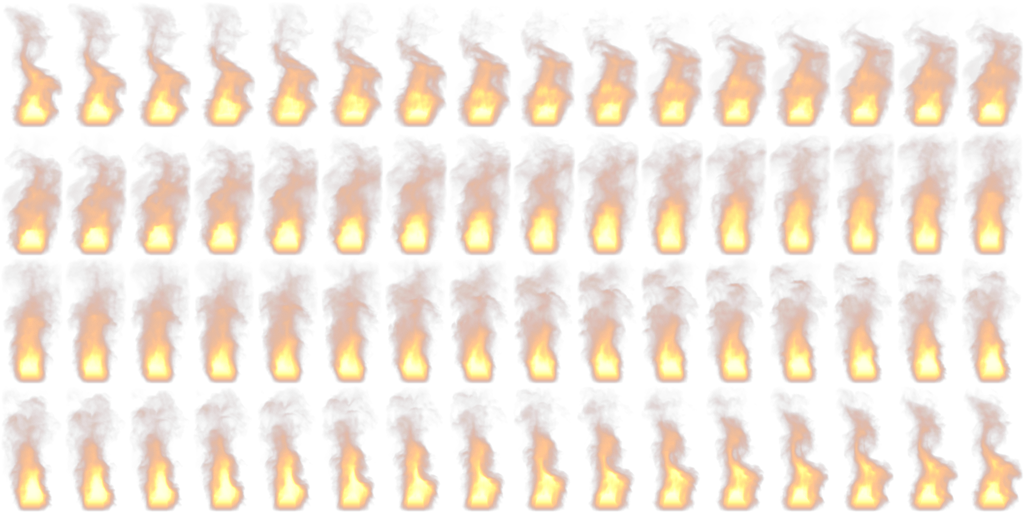
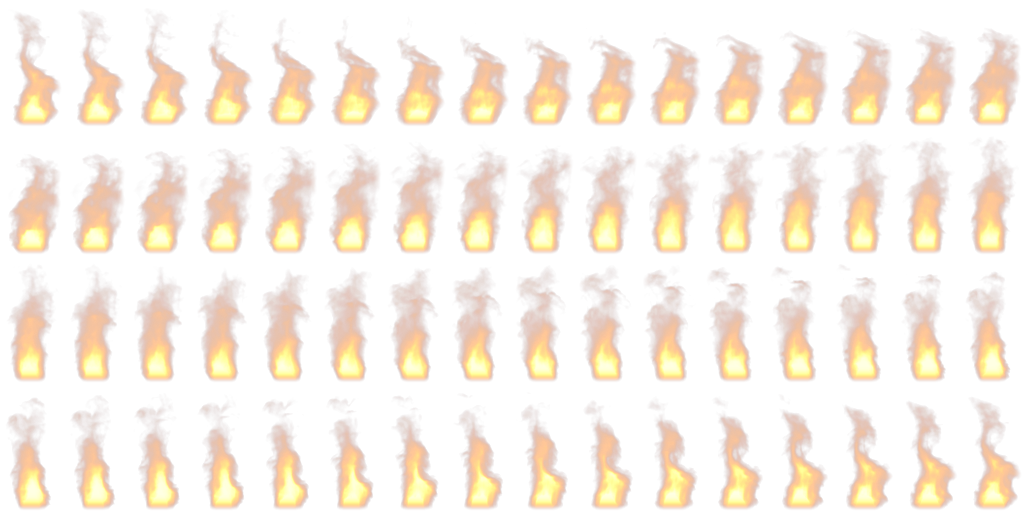
PHYSIS fire flipbooks: fade frame edges, alpha floor, softer ground glow
Claude-Session: https://claude.ai/code/session_019EFGtX4hztRMSMBkUz13V4

diff --git a/engine/world/PhysisNatureCues.h b/engine/world/PhysisNatureCues.h
@@ -166,7 +166,7 @@ inline const char* physisFlameEffectJson() {
                  "useParticleColor": false, "alphaAffectsIntensity": true } },
     { "texture": "builtin:soft", "blend": "additive", "align": "ground", "rate": 2, "loop": true, "prewarm": true,
       "life": [1.2, 1.6], "speed": [0, 0], "shape": "disc", "radius": 0.4, "size": [1.6, 2.2],
-      "color": [[0, "#ff600000"], [0.3, "#ff6a2038"], [1, "#ff400000"]] },
+      "color": [[0, "#ff600000"], [0.3, "#ff6a2024"], [1, "#ff400000"]] },
     { "texture": "builtin:spark", "blend": "additive", "align": "velocity", "rate": 3, "loop": true,
       "life": [0.8, 1.6], "speed": [1.5, 3.5], "spread": 30, "shape": "disc", "radius": 0.7,
       "gravity": [0, 0.8, 0], "drag": 0.6, "stretch": 0.05, "size": [0.03, 0.06],
